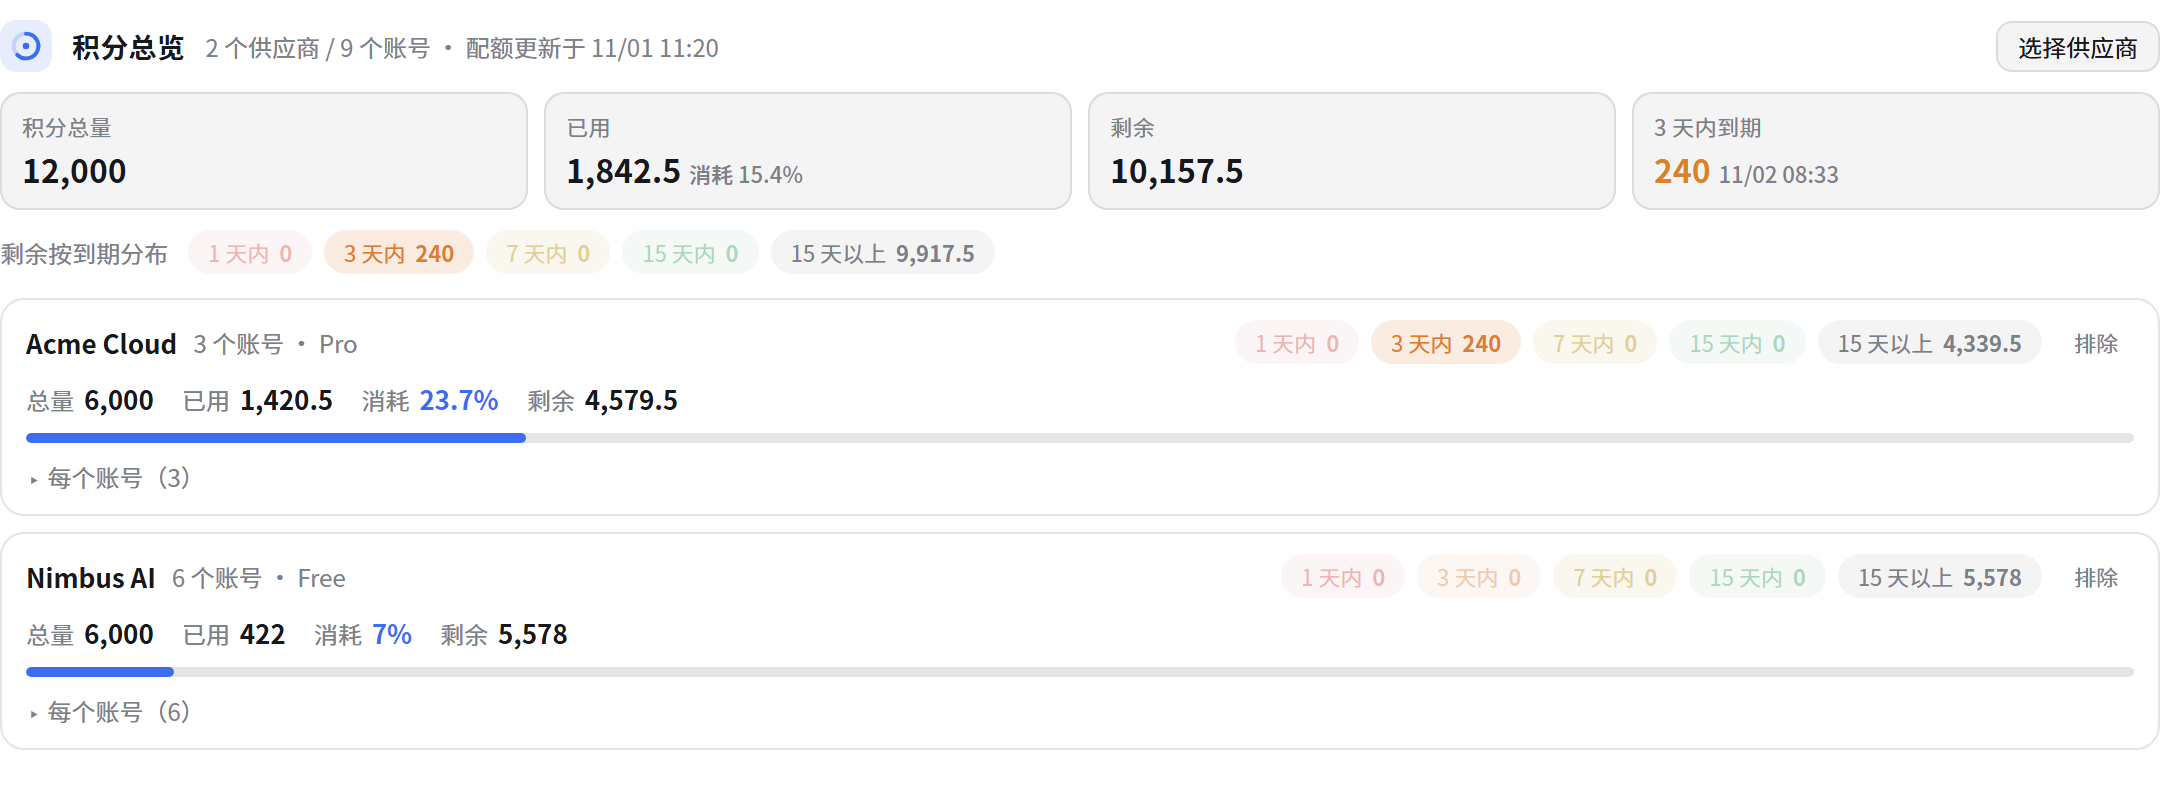
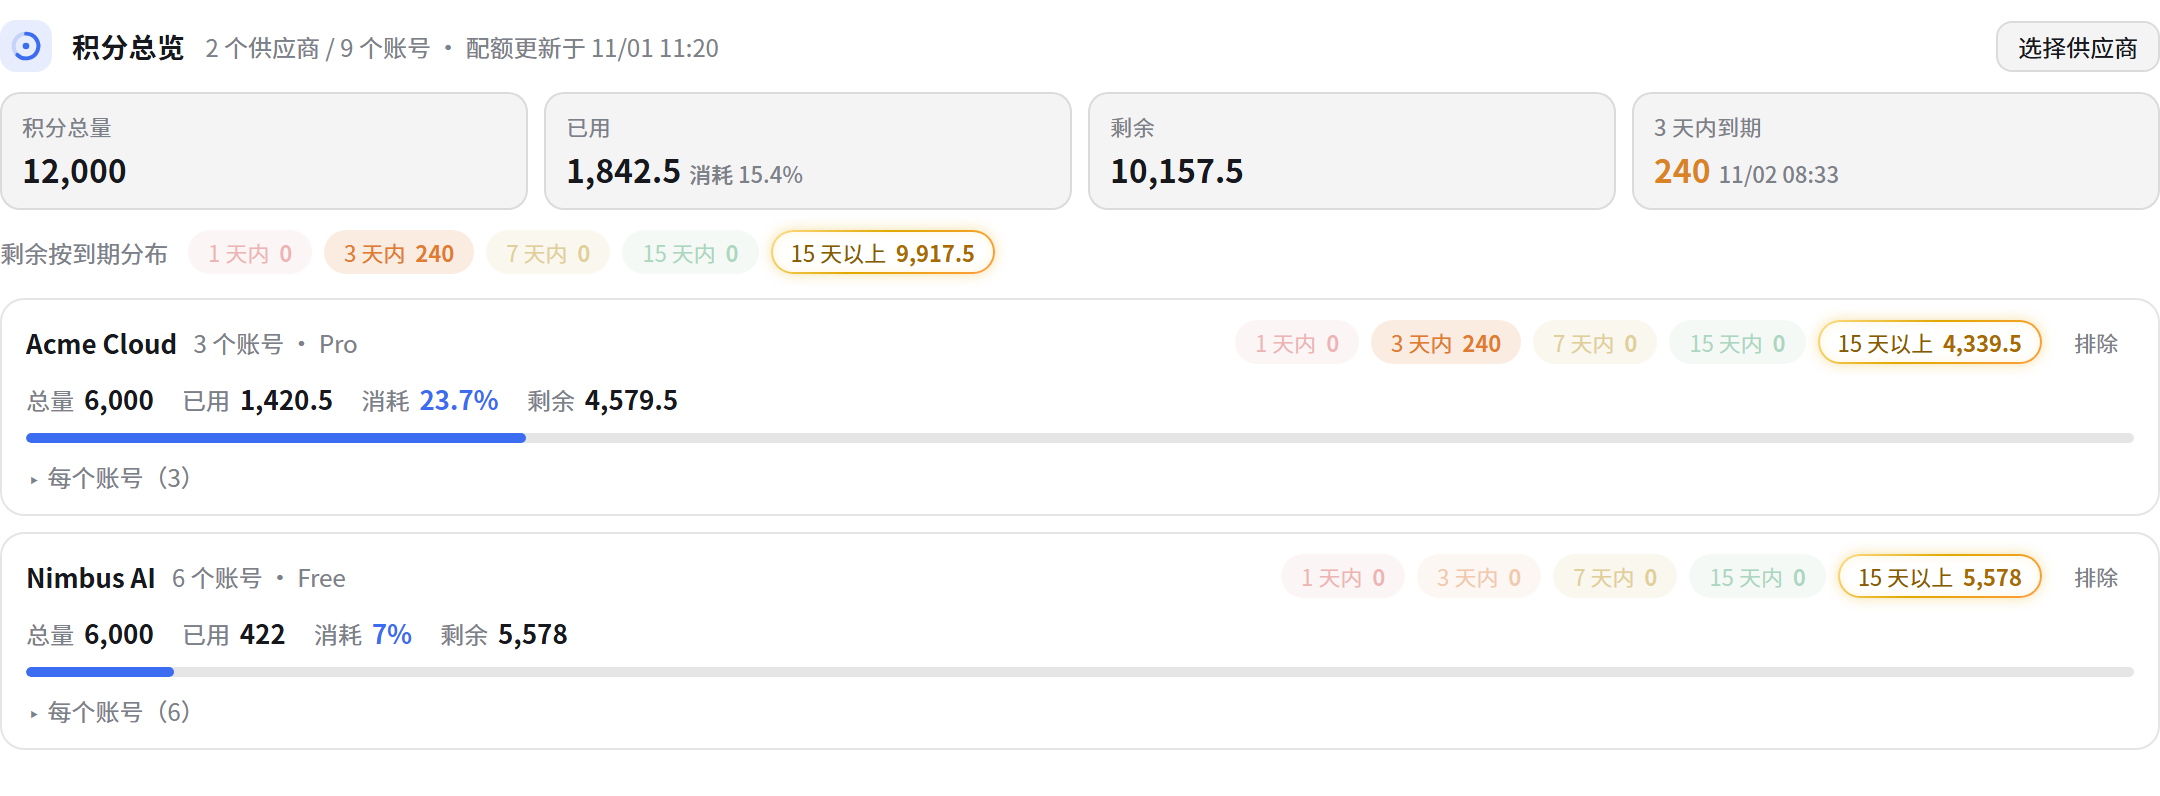
style: gold gradient edge for the over-15-day bucket

Changed region(s): [[0.3412, 0.2714, 0.4653, 0.3618], [0.8375, 0.392, 0.9616, 0.4824], [0.8375, 0.6935, 0.9616, 0.7538]]

diff --git a/panel/quota.css b/panel/quota.css
@@ -211,9 +211,34 @@ body {
   background: rgba(47, 158, 99, 0.13);
 }
 
+/* 15 天以上：金色，带渐变描边 + 外发光 */
 .bk.later {
-  color: var(--q-muted);
-  background: var(--q-card);
+  color: #8a5a00;
+  border: 1px solid transparent;
+  background:
+    linear-gradient(var(--q-bg), var(--q-bg)) padding-box,
+    linear-gradient(135deg, #ffdc86, #e0a800 45%, #ff9d3f) border-box;
+  box-shadow:
+    0 0 7px rgba(224, 168, 0, 0.35),
+    inset 0 0 6px rgba(255, 214, 110, 0.22);
+}
+
+.bk.later b {
+  color: #a86a00;
+}
+
+:root[data-theme='dark'] .bk.later {
+  color: #f0c65a;
+  background:
+    linear-gradient(var(--q-bg), var(--q-bg)) padding-box,
+    linear-gradient(135deg, #ffe9a8, #e0a800 45%, #ff8a4c) border-box;
+  box-shadow:
+    0 0 9px rgba(224, 168, 0, 0.45),
+    inset 0 0 7px rgba(255, 214, 110, 0.18);
+}
+
+:root[data-theme='dark'] .bk.later b {
+  color: #ffd873;
 }
 
 .bk.zero {

diff --git a/README.md b/README.md
@@ -33,7 +33,7 @@
 | 3 天内（橙） | 1–3 天 |
 | 7 天内（金） | 3–7 天 |
 | 15 天内（绿） | 7–15 天 |
-| 15 天以上（灰） | 15 天以后才到期，或没有已知的更早到期日 |
+| 15 天以上（金） | 15 天以后才到期，或没有已知的更早到期日；金色渐变描边 + 外发光 |
 
 五档相加 **恒等于该供应商的剩余积分**；顶部「剩余」下方也有一行全站合计的同款分档。
 
